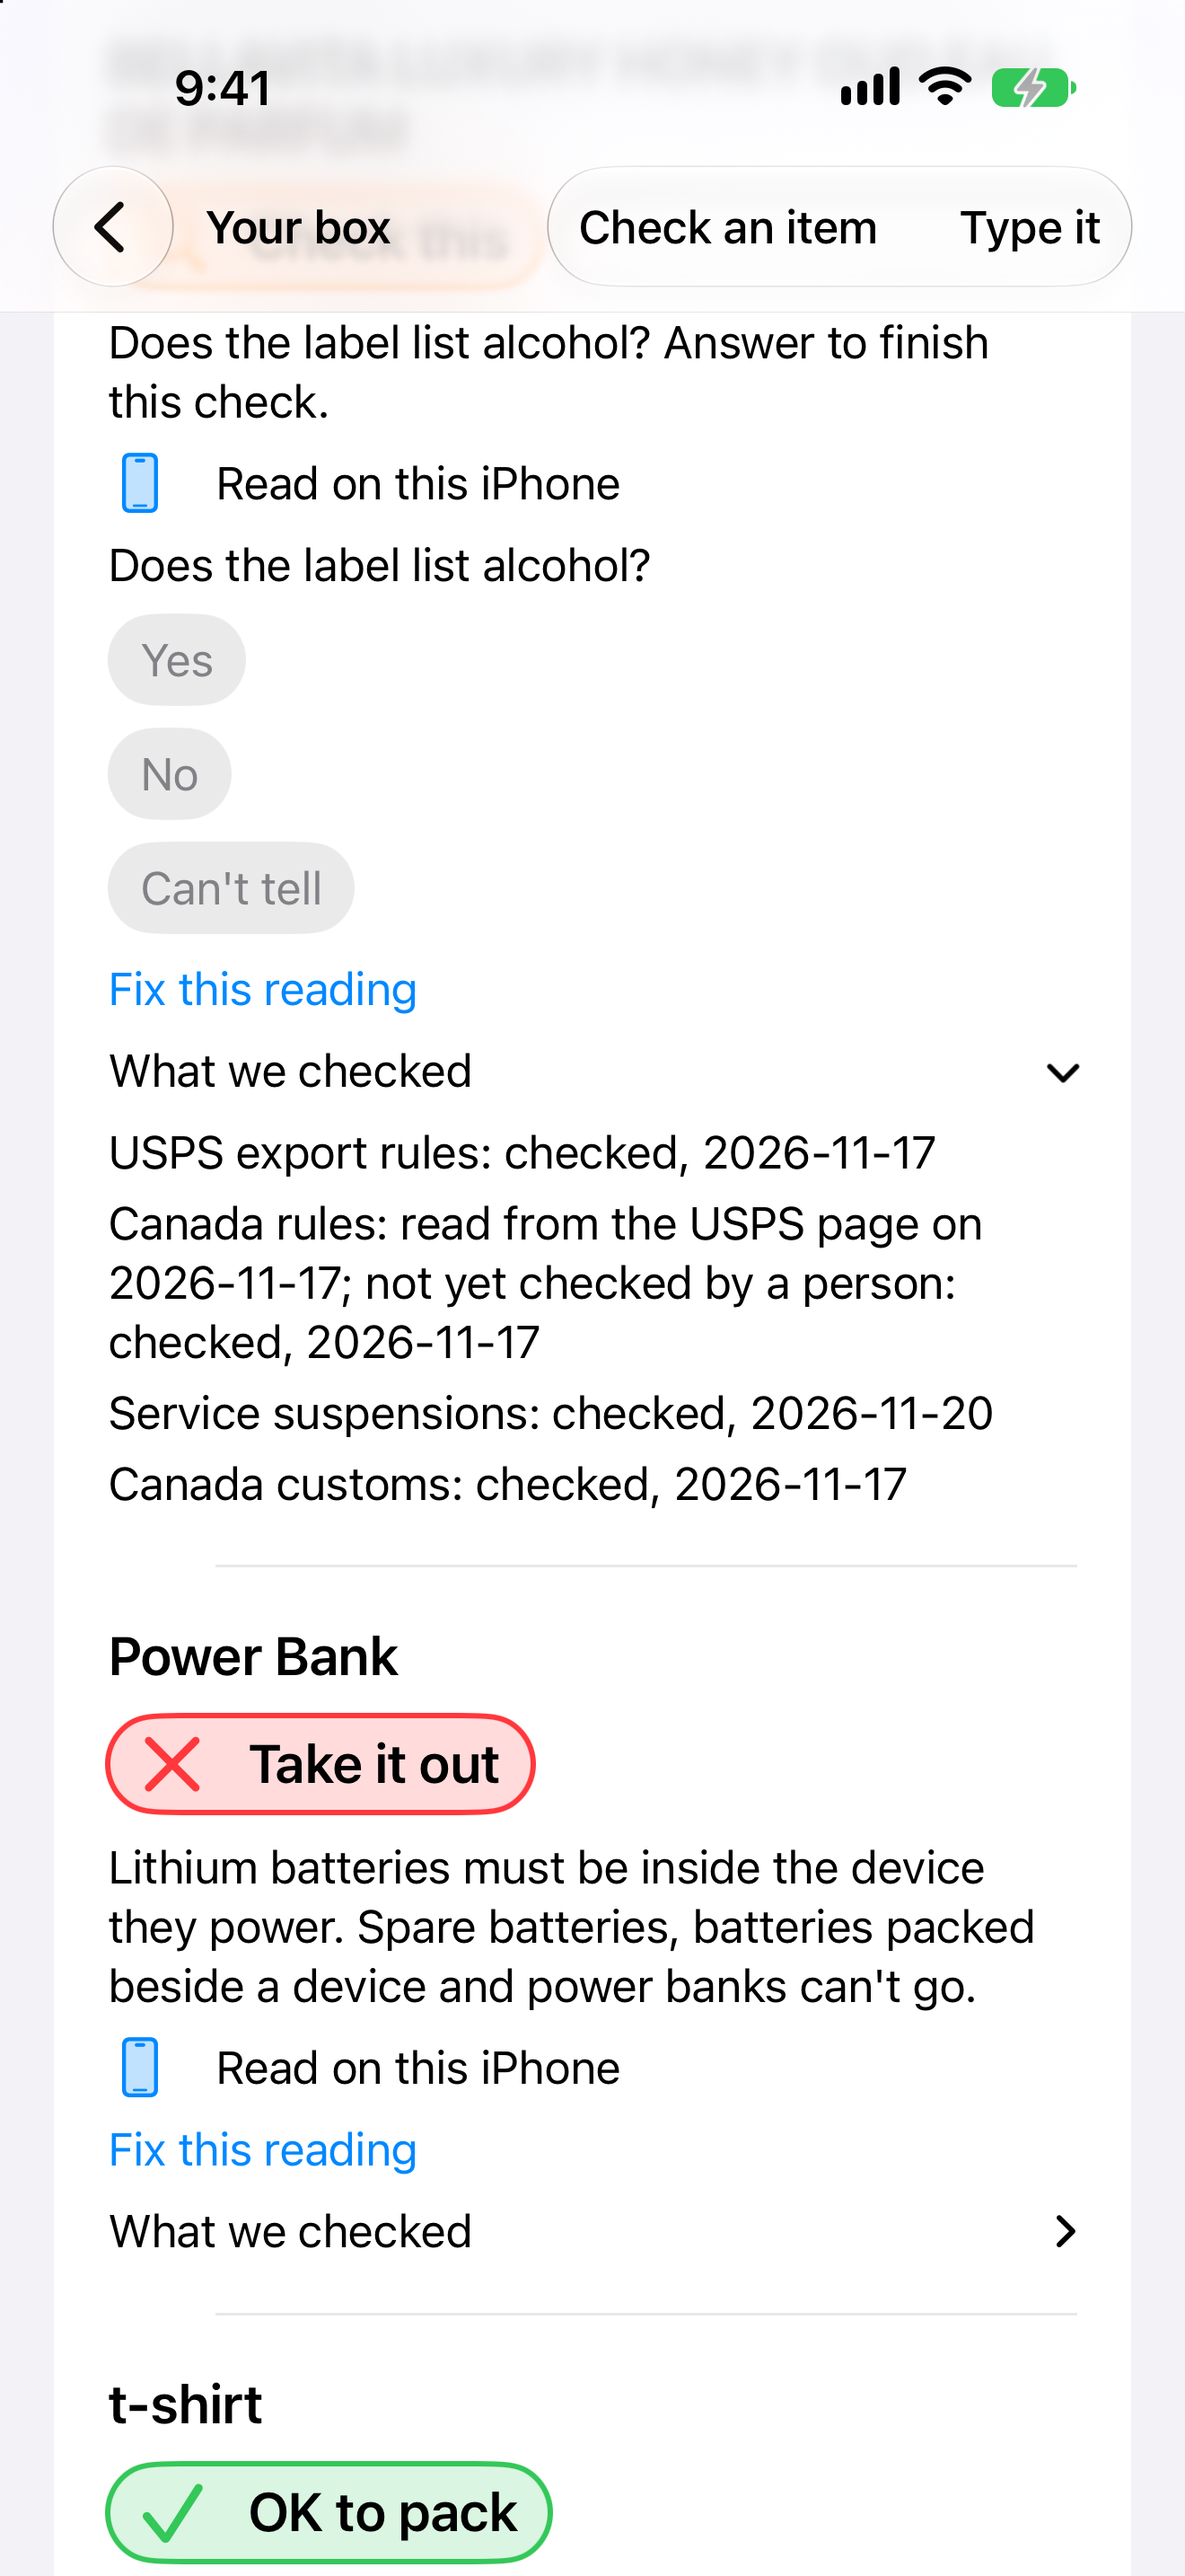
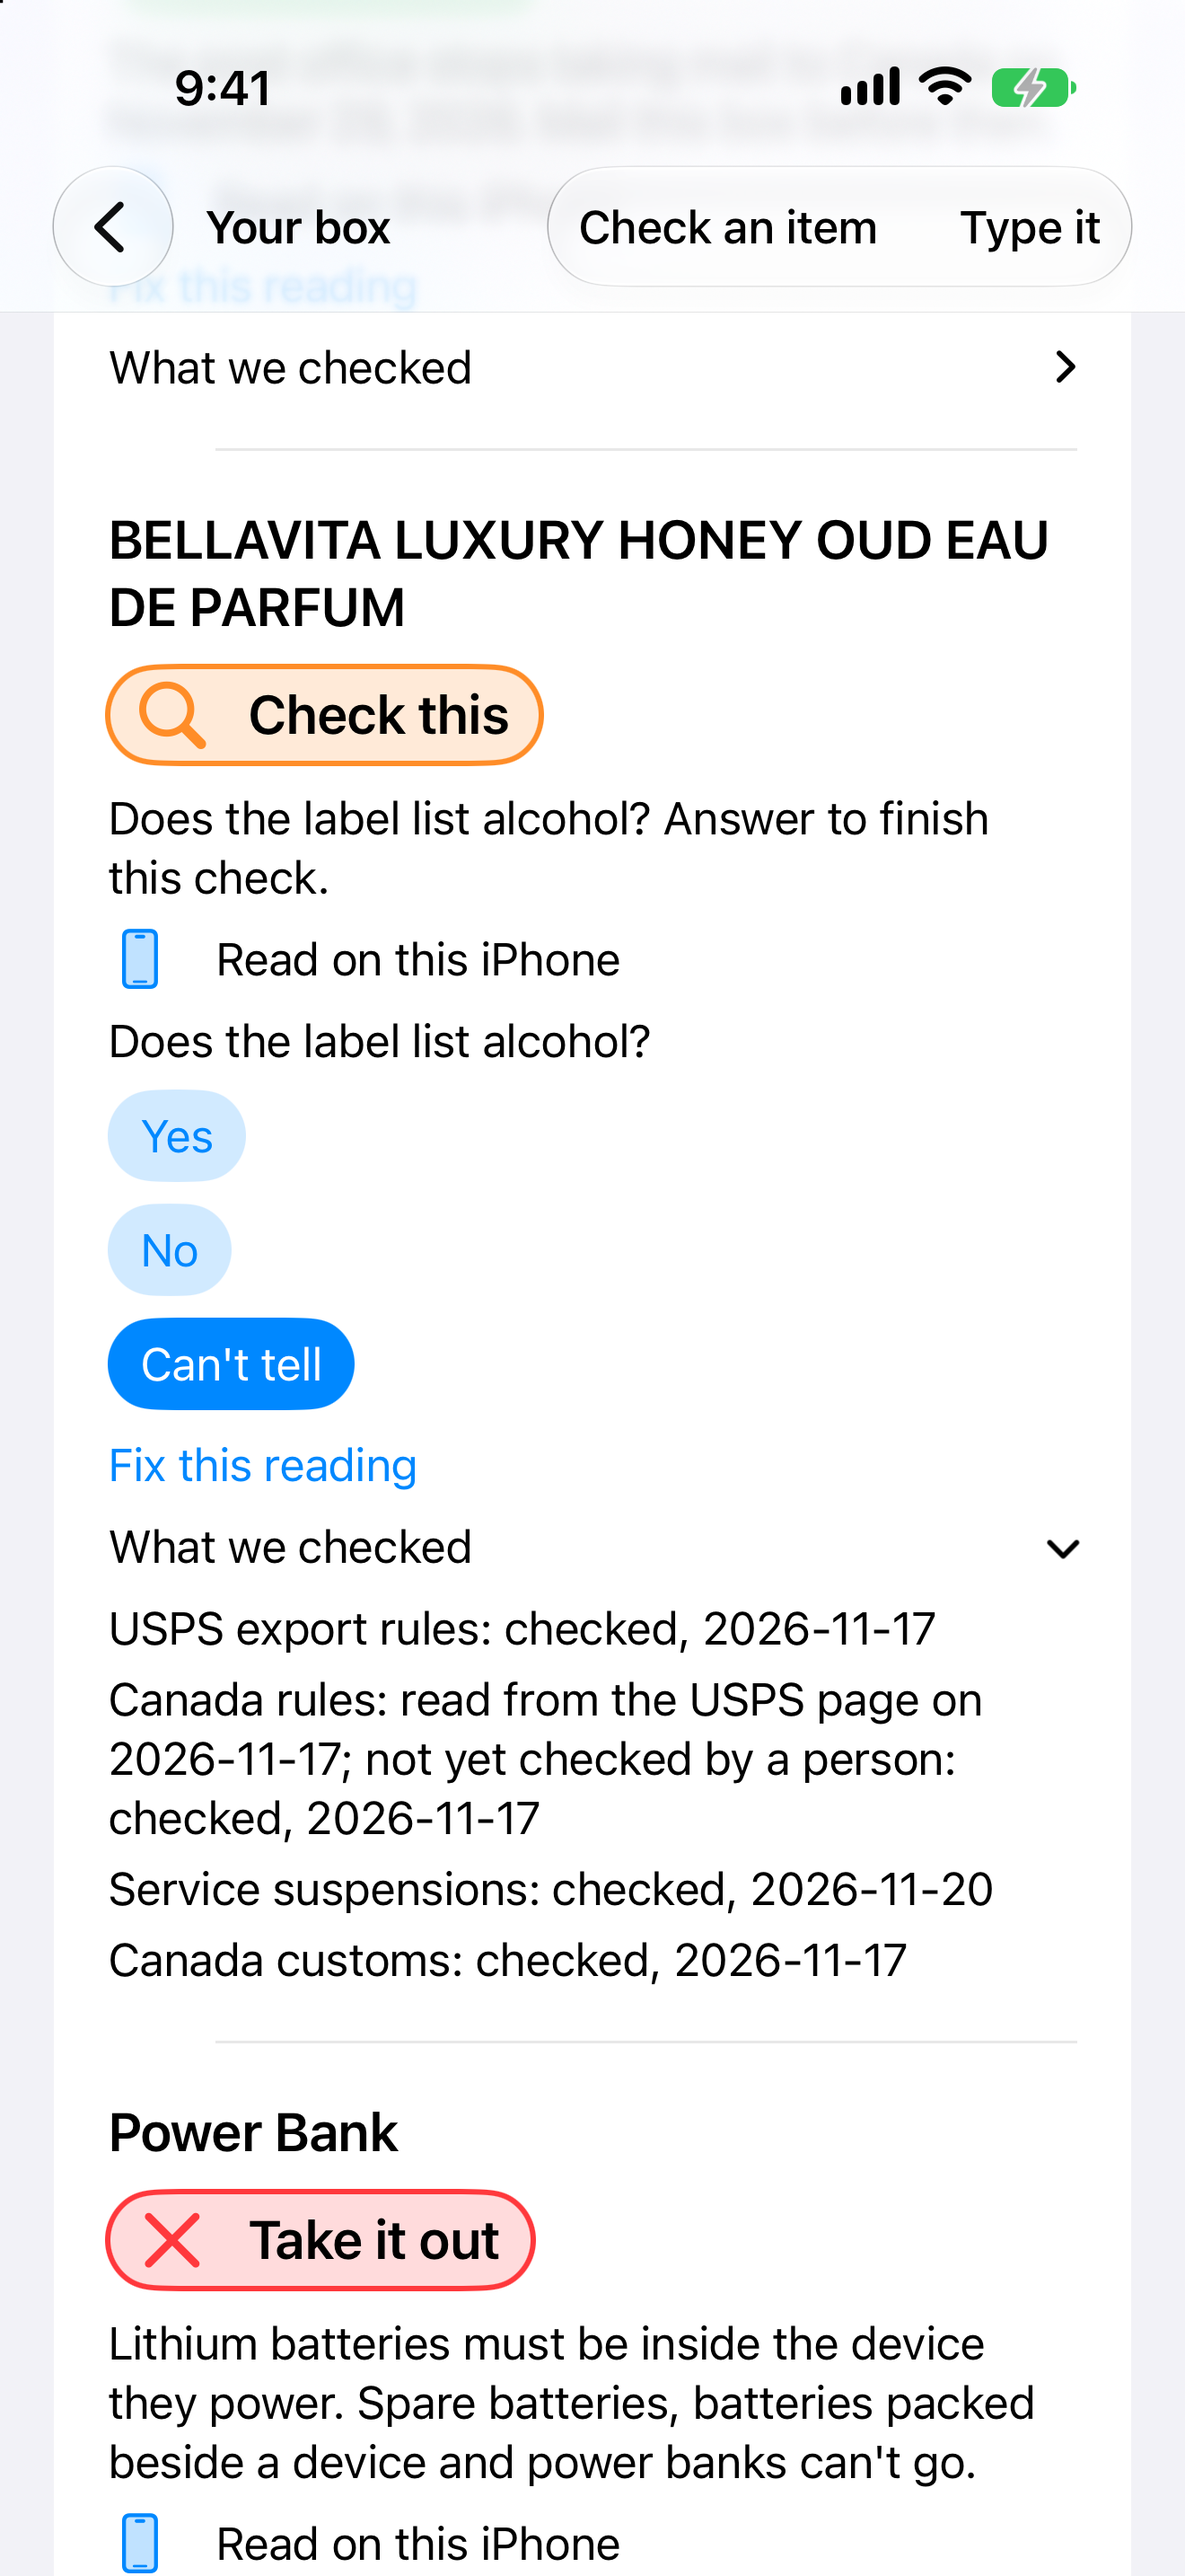
docs(ios): screenshot 04 taken again with the answer buttons as they are now
04 now shows a question's answers in the accent tint, with Can't tell
chosen and filled; the README describes it and drops the note to take it
again.

Verified: captured from a Release build including main 018f8a6 on the
iPhone 17 Pro Max simulator; 1320 x 2868.

diff --git a/ios/app-store/screenshots/README.md b/ios/app-store/screenshots/README.md
@@ -3,18 +3,20 @@
 Captured on 2026-11-20 from the Release build of commit 5f47e05 on an iPhone 17 Pro Max simulator
 (iOS 27.2), with `xcrun simctl io <device> screenshot`. The status bar was set to 9:41 with
 `xcrun simctl status_bar`. Every read is a real read by Apple's on-device model on that simulator
-(the Mac's model), through the app's own screens: Add a photo, then the photo picker.
+(the Mac's model), through the app's own screens: Add a photo, then the photo picker. 04 was
+taken again on 2026-11-21 from main at 018f8a6, after the change that tints a question's answers
+like every other button.
 
 | File | What it shows |
 |---|---|
 | 01-ready-check.png | Ready check: signed in, this iPhone checks items with no network, and label photos are read on it. |
 | 02-check-a-photo.png | A power bank label read on the iPhone: "Power bank: Take it out. Read on this iPhone." |
 | 03-your-box.png | The box for Canada: 1 to take out, 1 to check, 2 OK to pack, with the lotion's note that mail to Canada stops on November 29, 2026. |
-| 04-why-and-when.png | A perfume that waits for one answer ("Does the label list alcohol?"), each rule layer with the date it was checked, and the power bank's reason. |
+| 04-why-and-when.png | A perfume whose question ("Does the label list alcohol?") was answered "Can't tell", so it stays "Check this"; the chosen answer is filled. Below it, each rule layer with the date it was checked, and the power bank's reason. |
 | 05-another-country.png | The same box sent to the Philippines: "Re-checked 4 items for Philippines in 1 ms. 0 model calls." |
 
 What was done by hand, as a sender would: the lotion, the T-shirt and the perfume were confirmed
-with their "Yes, this is ..." buttons. The perfume's alcohol question was left unanswered,
+with their "Yes, this is ..." buttons. The perfume's alcohol question was answered "Can't tell",
 because the photo's record does not say what its label lists.
 
 Photos used: `own-01` (power bank), `own-18` (lotion) and `own-25` (perfume), all the project
@@ -25,7 +27,5 @@ screenshot. No CC-licensed image appears in these files.
 
 - The simulator has no camera, so 02 shows "No camera found. Add a photo instead." above the read.
   A real iPhone shows the camera there. Replace 02 with a 6.9-inch device capture if one is made.
-- 04 shows the question's answers in the old grey look. Once the change that tints them like every
-  other button is merged, capture 04 again so the screenshot matches the app.
 - 03 and 04 carry the Canada suspension note and dates of the Nov 20 rule edition. After
   November 29, 2026, the Canada box reads differently, so capture again for a later version.

diff --git a/ios/CHANGELOG.md b/ios/CHANGELOG.md
@@ -5,6 +5,13 @@ Each entry: what changed, its source, and how it was verified (with the exit cod
 
 ## 2026-11-21
 
+### docs(ios): screenshot 04 taken again with the answer buttons as they are now
+- What: `04-why-and-when.png` now shows a question's answers in the accent tint, with "Can't tell"
+  chosen and filled; the README describes it and drops the note to take it again.
+- Source: the answer-button fix, merged to main at 018f8a6.
+- Verified: captured from a Release build of this branch (main 018f8a6 merged in) on the iPhone 17
+  Pro Max simulator; 1320 x 2868.
+
 ### docs(ios): the screenshot notes say 04 must be taken again after the answer-button change
 - What: screenshot 04 shows a question's answers in the old grey look; the README says to capture
   it again once the change that tints them like every other button is merged.
